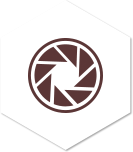
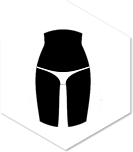
for whom, sent menu to email

Changed region(s): [[0.2105, 0.1842, 0.782, 0.8421]]

diff --git a/index.htm b/index.htm
@@ -16,7 +16,7 @@
 <!--<![endif]-->
 <head>
 	<meta charset=utf-8"UTF-8">
-	<title>L-FOOD - доставка правильного питания</title>
+	<title>L-FOOD - доставка правильного питания из натуральных продуктов в Оренбурге</title>
 
 	<link rel="icon" href="./favicon.ico">
 	<link rel="stylesheet" href="css/css_reset.css">
@@ -62,7 +62,7 @@
 			<li><a href="#up" class="up-smooth">Главная</a></li>
 			<li><a href="#behaviors" class="behaviors-smooth">Возможности</a></li>
 			<li><a href="#ipad" class="ipad-smooth">Команда</a></li>
-			<!--<li><a href="#foru" class="foru-smooth">Для кого</a></li>-->
+			<li><a href="#foru" class="foru-smooth">Для кого</a></li>
 		</ul>
 		<!--<div class="btn"><span><a href="#main-form" class="main-form">НАЧАТЬ БЕСПЛАТНО</a></span></div>-->
 		<div class="contacts">
@@ -184,7 +184,7 @@
 				</li>
 				<li>
 					<img src="img/list-icon3.png" alt="">
-					<p><b>Улучшение здоровья сердца</b> Для профилактики развития болезней сердца достаточно включать в меню цельнозерновые продукты, овощи, фруктов</p>
+					<p><b>Улучшение здоровья сердца</b> Для профилактики развития болезней сердца достаточно включать в меню цельнозерновые продукты, овощи, фрукты</p>
 				</li>
 				<li>
 					<img src="img/list-icon5.png" alt="">
@@ -234,69 +234,60 @@
 			</div>
 		</div>
 	</div>
-	<!--<div class="c5 clearfix" id="foru">
+	<div class="c5 clearfix" id="foru">
 		<div class="wrapper">
 			<div class="title"><span>Для кого?</span></div>
-			<div class="subtitle"><p>С нами работают компании из разных сфер деятельности, и с каждой нам удается построить
-				долгосрочное взаимовыгодное сотрудничество</p></div>
+			<div class="subtitle"><p>У нас заказывают здоровое питание самые разные люди</p></div>
 			<ul>
 				<li>
-					<img src="img/romb-icon1.png" tppabs="http://europhotoservice.ru/img/romb-icon1.png" alt="">
-					<p class="one">Фотосети</p>
-					<p class="two">Крупные фотосети передают сложное производство багета на аутсорсинг нам и пользуются всеми
-						преимуществами работы с нами: качественное выполнение заказов, кратчайшие сроки, отсутствие проблем с
-						персоналом и логистикой, постоянное наличие багета на складе, высвобождение дополнительных оборотных
-						средств, высокие прибыли, удобство и скорость оформления заказов, малая площадь стоек с образцами.</p>
+					<img src="img/romb-icon1.png" alt="">
+					<p class="one">Спортсмены</p>
+					<p class="two">Сбалансированная диета с высоким содержанием белков – один из лучших методов не только для
+						восстановления сил, но и для эффективного набора мышечной массы. В ассортименте существует множество продуктов,
+						которые обеспечивают организм питательными веществами для быстрого восстановления.</p>
 				</li>
 				<li>
-					<img src="img/romb-icon2.png" tppabs="http://europhotoservice.ru/img/romb-icon2.png" alt="">
-					<p class="one">Фотосалоны</p>
-					<p class="two">Отдельные фотосалоны расширяют ассортимент предлагаемых услуг с помощью нашей компании, т.к.
-						вложения в производство слишком велики для небольшого бизнеса. При этом клиенты получают самый полный и
-						современный комплекс услуг, а владельцы салонов расширение предлагаемых услуг и высокие прибыли.</p>
+					<img src="img/romb-icon2.png" alt="">
+					<p class="one">Кто хочет похудеть</p>
+					<p class="two">Подберем правильное питание из натуральных продуктов специально для вас. А критерием правильно
+						подобранной диеты будет являться не только снижение массы тела, но и улучшение общего самочувствия, настроения,
+						повышения умственной и физической работоспособности.</p>
 				</li>
 				<li>
-					<img src="img/romb-icon3.png" tppabs="http://europhotoservice.ru/img/romb-icon3.png" alt="">
-					<p class="one">Копицентры</p>
-					<p class="two">Копицентры предлагают востребованную услугу по оформлению фотографий, фото на холсте, плакатов
-						и другой печатной продукции в багет. Повышается средний чек заказа и лояльность клиентов. Клиентам не нужно
-						сначала печатать работу, а затем искать багетную мастерскую.</p>
+					<img src="img/romb-icon3.png" alt="">
+					<p class="one">Кто следит за здоровьем</p>
+					<p class="two">Таких людей, отличает осознанность! Да, да, именно осознанное отношение к своему здоровью.
+						Данная категория людей осознали полезность и важность для здоровья тех действий, которые они делают.
+						Такие люди не просто хотят быть здоровыми, они делают действия и осознанно заботятся о своем теле и своем здоровье!</p>
 				</li>
 				<li>
-					<img src="img/romb-icon4.png" tppabs="http://europhotoservice.ru/img/romb-icon4.png" alt="">
-					<p class="one">Рекламные агентства</p>
-					<p class="two">Рекламные агентства предлагают услуги по оформлению в багет для корпоративных клиентов, обычно
-						для оформления интерьеров крупных компаний, ресторанов или магазинов. Для рекламных агентств особые условия
-						сотрудничества.</p>
-				</li>
-				<li>
-					<img src="img/romb-icon5.png" tppabs="http://europhotoservice.ru/img/romb-icon5.png" alt="">
-					<p class="one">Багетные мастерские</p>
-					<p class="two">Багетные мастерские с помощью нашей компании расширяют список предоставляемых услуг (зеркала,
-						широкоформатная печать, модульные картины, пластификация и т.п.), а также имеют возможность передавать
-						сложные заказы нам, или же если сами не успевают выполнить по различным причинам.</p>
-				</li>
-				<li>
-					<img src="img/romb-icon6.png" tppabs="http://europhotoservice.ru/img/romb-icon6.png" alt="">
-					<p class="one">Иные розничные точки</p>
-					<p class="two">В любом салоне или магазине, где персонал общается с клиентами, возможно поставить нашу стойку
-						с образцами и предлагать дополнительные услуги. Это особенно актуально для мебельных магазинов, салонов
-						бытовых услуг, салонов связи и др.</p>
+					<img src="img/romb-icon4.png" alt="">
+					<p class="one">Просто занятые люди</p>
+					<p class="two">Современный ритм жизни позволяет работать более эффективно, быстрее выполнять задания, однако долговременные
+						эффекты могут быть неприятными. Это стресс, синдром хронической усталости, нарушения сна, увеличение уровня депрессии, неудовлетворённости.
+						Люди хуже ощущают вкус жизни и как будто перестают испытывать счастье от самого факта своегосуществования. Мы вернём вам забытые ощущения.</p>
 				</li>
 			</ul>
 		</div>
 	</div>
 	<div class="c6">
 		<div class="wrapper">
-			<p>Получите подробные примеры внедрения от компаний, работающих с нами</p>
-			<img src="img/arrow-down-white.png" tppabs="http://europhotoservice.ru/img/arrow-down-white.png" alt="">
-			<form action="http://europhotoservice.ru/email.php" method="post">
+			<p>Получите подробное меню из натуральных продуктов</p>
+			<img src="img/arrow-down-white.png" alt="">
+			<form action="./email.php" method="post">
+
+				<!-- Hidden Required Fields -->
+				<input type="hidden" name="project_name" value="Site Name">
+				<input type="hidden" name="admin_email" value="mail@l-food.ru">
+				<input type="hidden" name="form_subject" value="Form Subject">
+				<!-- END Hidden Required Fields -->
+
 				<input type="text" placeholder="Ваш email" name="contact" required>
 				<input type="submit" value="Получить">
 			</form>
 		</div>
 	</div>
-	<div class="c7 clearfix" id="about">
+	<!--<div class="c7 clearfix" id="about">
 		<div class="wrapper">
 			<div class="title"><span>Наша компания в цифрах</span></div>
 			<ul>
@@ -469,7 +460,7 @@
 				url: "mail.php", //Change
 				data: th.serialize()
 			}).done(function() {
-				alert("Thank you!");
+				alert("Спасибо, заявку приняли!");
 				setTimeout(function() {
 					// Done Functions
 					th.trigger("reset");

diff --git a/css/style.css b/css/style.css
@@ -113,7 +113,7 @@
 	font-size: 23px;
 	color: #1e3653;
 	font-family: "helveticaneuecyrlight";
-	background: url("../img/icon-phone.png"/*tpa=http://europhotoservice.ru/img/icon-phone.png*/) no-repeat center left;
+	background: url("../img/icon-phone.png") no-repeat center left;
 	padding-left: 15px;
 	margin-left: 5px;
 	margin-bottom: 5px;
@@ -131,7 +131,7 @@
 	clear: both;
 	font-size: 18px;
 	color: #333333;
-	background: url("../img/icon-mail.png"/*tpa=http://europhotoservice.ru/img/icon-mail.png*/) no-repeat center left;
+	background: url("../img/icon-mail.png") no-repeat center left;
 	padding-left: 15px;
 	margin-left: 5px;
 }
@@ -155,7 +155,7 @@
 	margin: auto;
 }
 .c1{
-	background: url("../img/bg-c1.jpg"/*tpa=http://europhotoservice.ru/img/bg-c1.jpg*/) no-repeat center;
+	background: url("../img/bg-c1.jpg") no-repeat center;
 	min-width: 1000px;
 }
 .c1 .title{
@@ -205,7 +205,7 @@
 	font-size: 24px;
 	padding-left: 33px;
 	padding-right: 38px;
-	background: url("../img/text-right-arrow.png"/*tpa=http://europhotoservice.ru/img/text-right-arrow.png*/) no-repeat center right;
+	background: url("../img/text-right-arrow.png") no-repeat center right;
 	top:2px;
 }
 .c1{
@@ -349,7 +349,7 @@
 }
 .c3 .btn span{
 	font-size: 24px;
-	background: url("../img/text-right-arrow.png"/*tpa=http://europhotoservice.ru/img/text-right-arrow.png*/) no-repeat right center;
+	background: url("../img/text-right-arrow.png") no-repeat right center;
 	padding-right: 40px;
 	padding-left: 26px;
 	position: relative;
@@ -409,7 +409,7 @@
 	max-width: 1051px;
 	height: 773px;
 	margin: auto;
-	background: url("../img/ipad.png"/*tpa=http://europhotoservice.ru/img/ipad.png*/) no-repeat center;
+	background: url("../img/ipad.png") no-repeat center;
 	position: relative;	
 }
 .c4 .ipad .frame-wrapper{
@@ -450,7 +450,7 @@
 	font-size: 24px;
 	padding-left: 10px;
 	padding-right: 40px;
-	background: url("../img/text-right-arrow.png"/*tpa=http://europhotoservice.ru/img/text-right-arrow.png*/) no-repeat right center;
+	background: url("../img/text-right-arrow.png") no-repeat right center;
 	position: relative;
 	top:3px;
 }
@@ -460,7 +460,7 @@
 }
 .c5{
 	padding-top: 51px;
-	background: url("../img/bg-wood.jpg"/*tpa=http://europhotoservice.ru/img/bg-wood.jpg*/) no-repeat center;
+	background: url("../img/bg-wood.jpg") no-repeat center;
 }
 .c5 .title{
 	margin: auto;
@@ -528,7 +528,7 @@
 	min-width: 1000px;
 }
 .c6{
-	background: url("../img/bg-blue.png"/*tpa=http://europhotoservice.ru/img/bg-blue.png*/) no-repeat center top;
+	background: url("../img/bg-blue.png") no-repeat center top;
 	min-width: 1000px;
 }
 .c6 p{
@@ -699,13 +699,13 @@
 	top: -1px;
 	padding-left: 18px;
 	padding-right: 40px;
-	background: url("../img/text-right-arrow.png"/*tpa=http://europhotoservice.ru/img/text-right-arrow.png*/) no-repeat right center;
+	background: url("../img/text-right-arrow.png") no-repeat right center;
 }
 .c8{
 	padding-bottom: 125px;
 }
 .c9{
-	background: url("../img/bg-rezult.jpg"/*tpa=http://europhotoservice.ru/img/bg-rezult.jpg*/) no-repeat center top;
+	background: url("../img/bg-rezult.jpg") no-repeat center top;
 	padding-top: 52px;
 	padding-bottom: 142px;
 	min-width: 1000px;
@@ -739,7 +739,7 @@
 }
 .c10{
 	padding-top: 48px;
-  background: url("../img/paralax.jpg"/*tpa=http://europhotoservice.ru/img/paralax.jpg*/) center 0 no-repeat fixed;
+  background: url("../img/paralax.jpg") center 0 no-repeat fixed;
 	padding-bottom: 85px;
 	min-width: 1000px;
 }
@@ -826,7 +826,7 @@
 	font-weight: bold;
 }
 .footer{
-	background: url("../img/bg-footer.jpg"/*tpa=http://europhotoservice.ru/img/bg-footer.jpg*/) no-repeat center top;
+	background: url("../img/bg-footer.jpg") no-repeat center top;
 	height: 280px;
 	min-width: 1000px;
 }
@@ -864,13 +864,13 @@
 	margin-bottom: 7px;
 }
 .footer .contacts .adress{
-	background: url("../img/footer-icon1.png"/*tpa=http://europhotoservice.ru/img/footer-icon1.png*/) no-repeat left center;
+	background: url("../img/footer-icon1.png") no-repeat left center;
 }
 .footer .contacts .phone{
-	background: url("../img/footer-icon2.png"/*tpa=http://europhotoservice.ru/img/footer-icon2.png*/) no-repeat left center;
+	background: url("../img/footer-icon2.png") no-repeat left center;
 }
 .footer .contacts .mail{
-	background: url("../img/footer-icon3.png"/*tpa=http://europhotoservice.ru/img/footer-icon3.png*/) no-repeat left center;
+	background: url("../img/footer-icon3.png") no-repeat left center;
 }
 .footer .contacts .mail a{
 	text-decoration: underline;
@@ -922,7 +922,7 @@
 	font-size: 18px;
 	font-family: "helveticaneuecyrlight";
 	padding-left: 23px;
-	background: url("../img/footer-list-style.png"/*tpa=http://europhotoservice.ru/img/footer-list-style.png*/) no-repeat top left;
+	background: url("../img/footer-list-style.png") no-repeat top left;
 	text-decoration: none;
 	cursor: pointer;
 }
@@ -940,7 +940,7 @@
 	padding-bottom: 15px;
 }
 .popup .close-btn{
-	background: url("../img/close-icon.png"/*tpa=http://europhotoservice.ru/img/close-icon.png*/) center no-repeat;
+	background: url("../img/close-icon.png") center no-repeat;
 	width: 14px;
 	height: 14px;
 	position: absolute;
@@ -949,7 +949,7 @@
 	cursor: pointer;
 }
 .popup .close-btn:hover{
-	background: url("../img/close-icon.png"/*tpa=http://europhotoservice.ru/img/close-icon.png*/) no-repeat center #336699;
+	background: url("../img/close-icon.png") no-repeat center #336699;
 }
 .popup form p{
 	background-color: #1e3653;

diff --git a/email.php b/email.php
@@ -1,0 +1,52 @@
+<?php
+
+$method = $_SERVER['REQUEST_METHOD'];
+
+//Script Foreach
+$c = true;
+if ( $method === 'POST' ) {
+
+	$project_name = trim($_POST["project_name"]);
+	$admin_email  = trim($_POST["admin_email"]);
+	$form_subject = trim($_POST["form_subject"]);
+
+	foreach ( $_POST as $key => $value ) {
+		if ( $value != "" && $key != "project_name" && $key != "admin_email" && $key != "form_subject" ) {
+			$message .= "
+			" . ( ($c = !$c) ? '<tr>':'<tr style="background-color: #f8f8f8;">' ) . "
+				<td style='padding: 10px; border: #e9e9e9 1px solid;'><b>$key</b></td>
+				<td style='padding: 10px; border: #e9e9e9 1px solid;'>$value</td>
+			</tr>
+			";
+		}
+	}
+} else if ( $method === 'GET' ) {
+
+	$project_name = trim($_GET["project_name"]);
+	$admin_email  = trim($_GET["admin_email"]);
+	$form_subject = trim($_GET["form_subject"]);
+
+	foreach ( $_GET as $key => $value ) {
+		if ( $value != "" && $key != "project_name" && $key != "admin_email" && $key != "form_subject" ) {
+			$message .= "
+			" . ( ($c = !$c) ? '<tr>':'<tr style="background-color: #f8f8f8;">' ) . "
+				<td style='padding: 10px; border: #e9e9e9 1px solid;'><b>$key</b></td>
+				<td style='padding: 10px; border: #e9e9e9 1px solid;'>$value</td>
+			</tr>
+			";
+		}
+	}
+}
+
+$message = "<table style='width: 100%;'>$message</table>";
+
+function adopt($text) {
+	return '=?UTF-8?B?'.Base64_encode($text).'?=';
+}
+
+$headers = "MIME-Version: 1.0" . PHP_EOL .
+"Content-Type: text/html; charset=utf-8" . PHP_EOL .
+'From: '.adopt($project_name).' <'.$admin_email.'>' . PHP_EOL .
+'Reply-To: '.$admin_email.'' . PHP_EOL;
+
+mail($admin_email, adopt($form_subject), $message, $headers );
